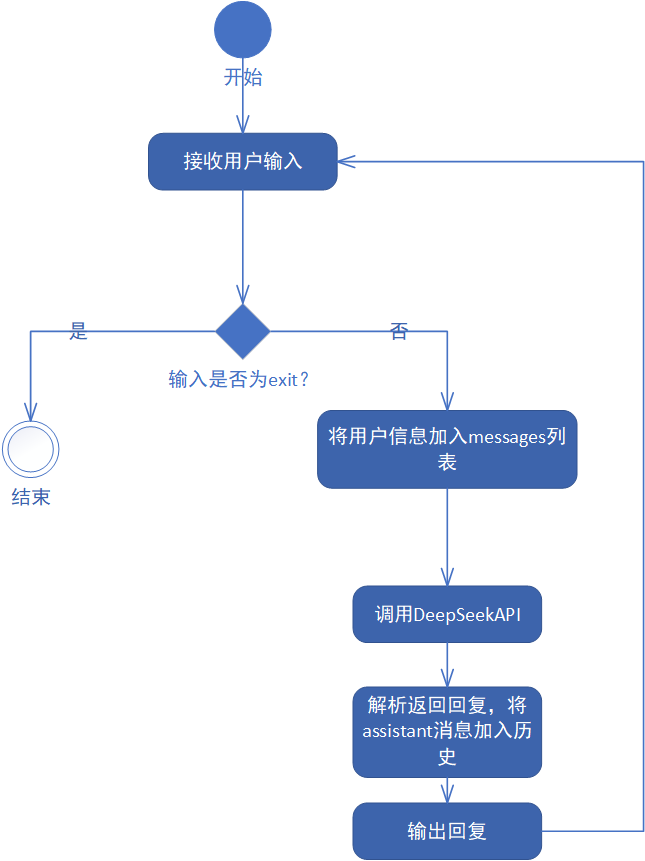
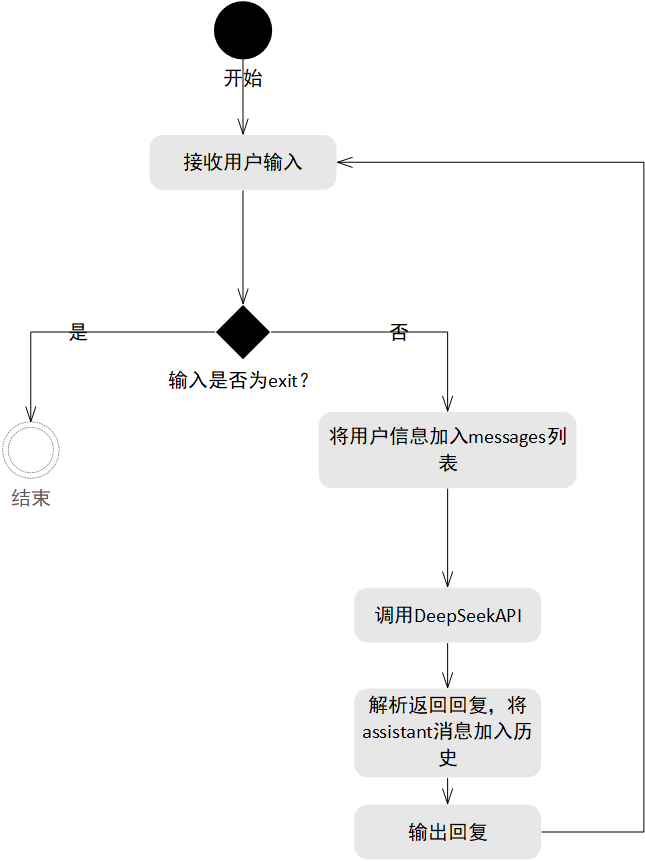
docs:新增评测回归流程图

diff --git a/README.md b/README.md
@@ -58,3 +58,7 @@ python chatbot.py
 ## 系统流程
 
 ![问答流程图](docs/问答流程图.png)
+
+### 评测与回归测试流程
+
+![评测回归流程图](docs/评测回归流程图.png)
